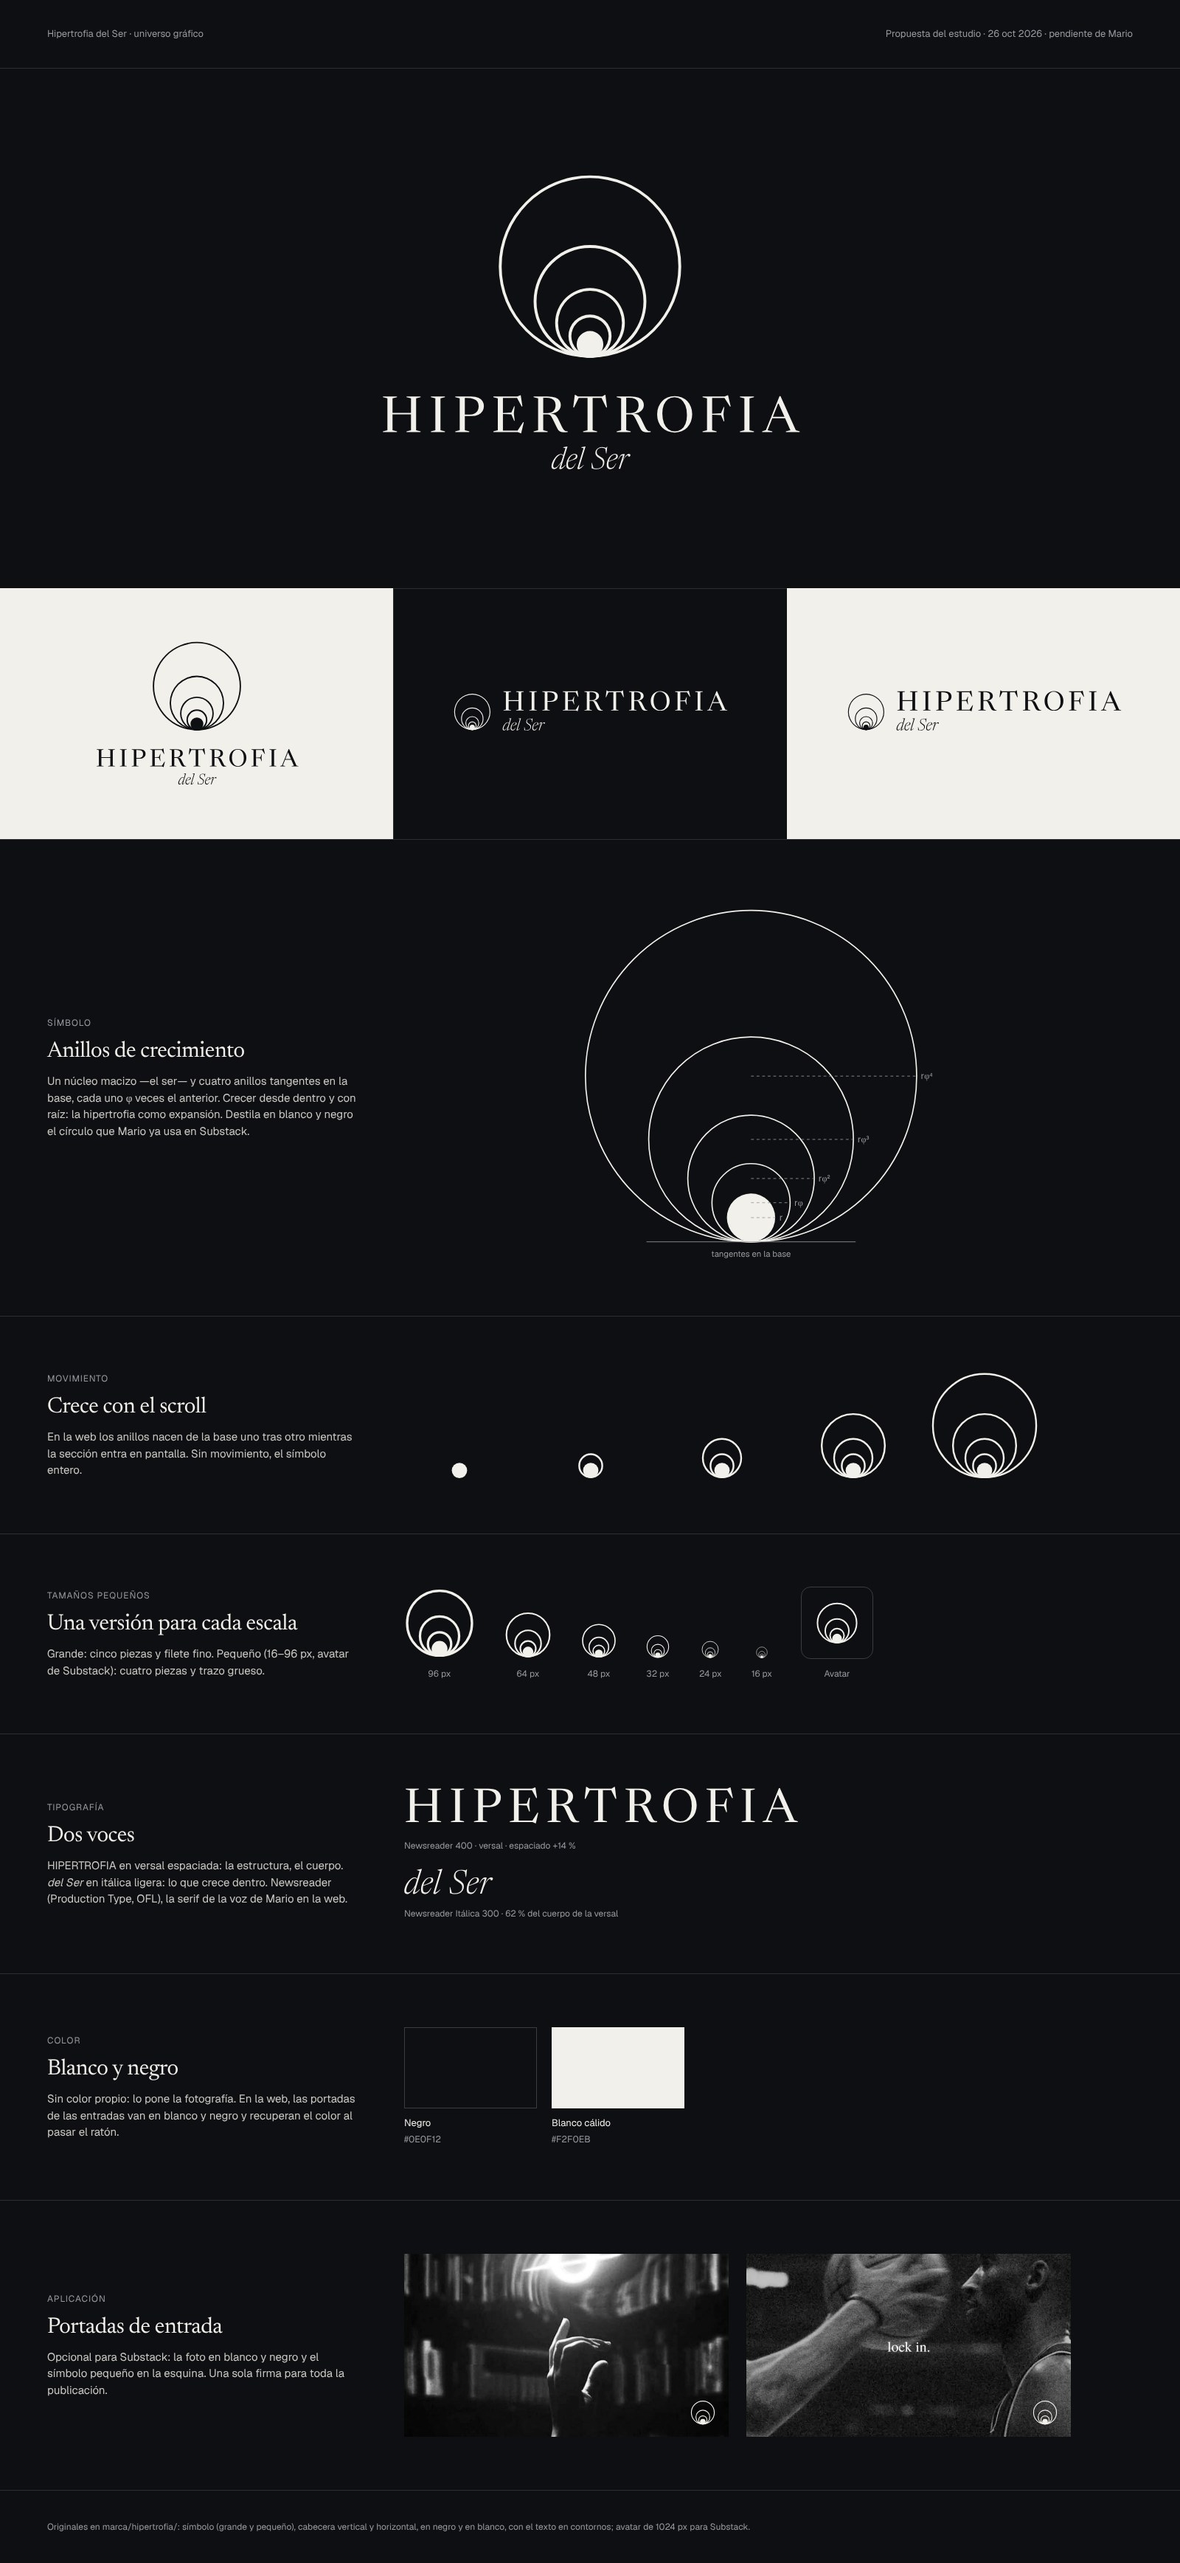
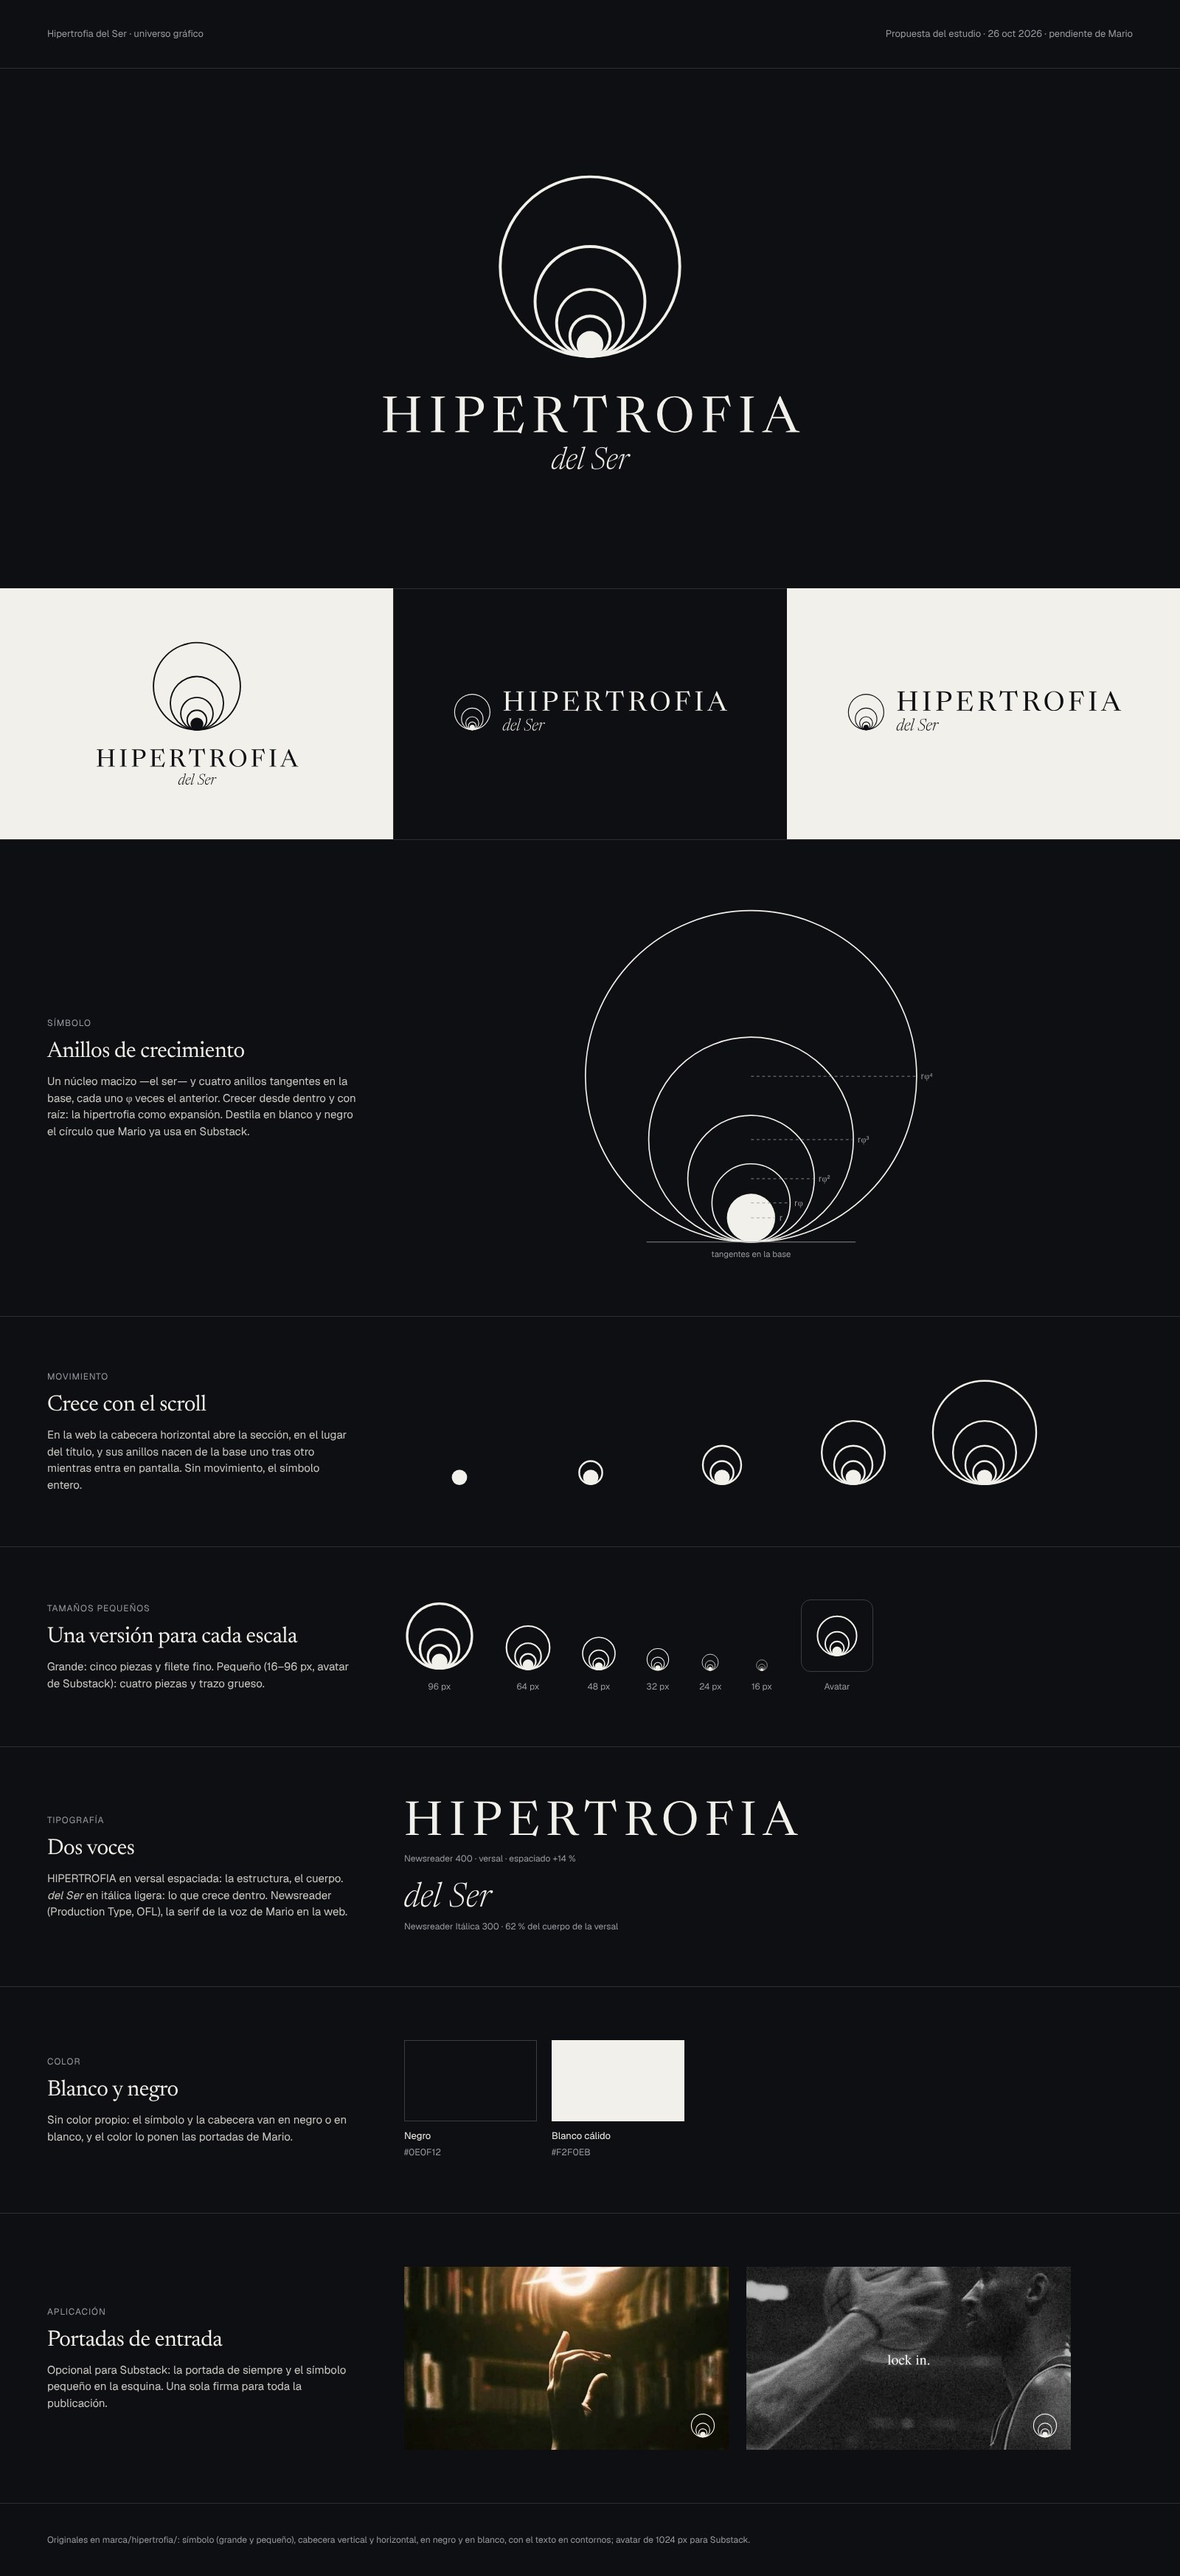
v3: Hipertrofia del Ser, cabecera al tamaño de un título y portadas en color
La cabecera de la publicación (símbolo + HIPERTROFIA / del Ser) deja de
ocupar una pantalla y abre la sección en el lugar del título, en
horizontal; el símbolo sigue creciendo con el scroll. Las portadas de las
entradas recuperan su color. Hoja del sistema, README y PLAN al día.

Claude-Session: https://claude.ai/code/session_01Npzz9QTKa2pHp5aZ9Rw4yu

diff --git a/clients/mario-lignarolo/app/v3/v3.module.css b/clients/mario-lignarolo/app/v3/v3.module.css
@@ -686,16 +686,20 @@
    tangentes en la base, cada uno φ veces el anterior (HdsSymbol.tsx).
    Cabecera: el nombre en dos voces, HIPERTROFIA en versal espaciada (el
    cuerpo, la estructura) y «del Ser» en itálica (lo que crece dentro). */
-.hdsCover {
-  display: grid;
-  justify-items: center;
-  text-align: center;
+
+/* la cabecera, donde va el título de sección: símbolo a la izquierda y el
+   nombre en dos líneas; el símbolo mide lo que el bloque de texto */
+.hdsMasthead {
+  display: flex;
+  align-items: center;
+  gap: 0.42em;
+  font-size: clamp(2rem, 1.2rem + 2.2vw, 3.5rem);
 }
 .hdsSymbol {
   display: block;
-  width: min(36svh, 30vw);
-  height: auto;
-  aspect-ratio: 1;
+  flex: none;
+  width: 1.62em;
+  height: 1.62em;
   overflow: visible;
   color: var(--on-dark);
 }
@@ -709,16 +713,13 @@
   transform: scale(calc(var(--x) * (2 - var(--x))));
 }
 .hdsMast {
-  margin: var(--s-block) 0 0;
+  margin: 0;
   font-family: var(--serif);
-  font-size: clamp(2.5rem, 0.9rem + 4.8vw, 6.75rem);
   font-weight: 400;
   line-height: 1;
 }
 .hdsMastName {
   display: block;
-  /* el espaciado de la última letra, devuelto para que centre */
-  margin-right: -0.14em;
   letter-spacing: 0.14em;
   text-transform: uppercase;
 }
@@ -730,13 +731,8 @@
   font-weight: 300;
   letter-spacing: -0.01em;
 }
-.hdsBy {
-  margin: 1.5rem 0 0;
-  font-size: var(--t-ui);
-  color: var(--on-dark-soft);
-}
-.hdsCover + .displayHead {
-  margin-top: var(--s-section);
+.hdsMasthead + .displayHead {
+  margin-top: var(--s-block);
 }
 .cards {
   display: grid;
@@ -754,16 +750,11 @@
   aspect-ratio: 16 / 9;
   margin-bottom: 0.8rem;
 }
-/* portadas en blanco y negro, como una sola publicación; el color, al pasar */
 .cardPhoto img {
-  filter: grayscale(1) contrast(1.06);
-  transition:
-    transform 0.9s cubic-bezier(0.16, 0.84, 0.24, 1),
-    filter 0.6s ease;
+  transition: transform 0.9s cubic-bezier(0.16, 0.84, 0.24, 1);
 }
 .cardLink:hover .cardPhoto img {
   transform: scale(1.03);
-  filter: none;
 }
 .cardTitle {
   margin: 0;
@@ -1520,11 +1511,8 @@
     max-height: none;
     aspect-ratio: 4 / 5;
   }
-  .hdsSymbol {
-    width: min(62vw, 300px);
-  }
-  .hdsMast {
-    font-size: 9.6vw;
+  .hdsMasthead {
+    font-size: min(2rem, 7.6vw);
   }
   .cards {
     grid-template-columns: 1fr;

diff --git a/clients/mario-lignarolo/app/v3/sections/Hipertrofia.tsx b/clients/mario-lignarolo/app/v3/sections/Hipertrofia.tsx
@@ -7,26 +7,22 @@ import s from "../v3.module.css";
 
 /**
  * 04 · HIPERTROFIA DEL SER, en negro: una publicación con identidad propia.
- * Abre como la portada de una revista —su símbolo, que crece con el scroll,
- * y su cabecera—; después, el titular en condensada («El ser también.» se
- * enciende con el scroll) y el copy en la columna de lectura. Seis entradas
- * reales de Substack, todas al mismo tamaño, con títulos en serif y portadas
- * en blanco y negro (el color vuelve al pasar el ratón); al cierre, una
- * suscripción discreta con el símbolo.
+ * Abre con su cabecera (el símbolo, que crece con el scroll, y el nombre)
+ * en el lugar del título de sección; después, el titular en condensada
+ * («El ser también.» se enciende con el scroll) y el copy en la columna de
+ * lectura. Seis entradas reales de Substack, todas al mismo tamaño y con
+ * títulos en serif; al cierre, una suscripción discreta con el símbolo.
  */
 export default function Hipertrofia() {
   const { hipertrofia: h } = v3;
   return (
     <section className={`${s.dark} ${s.pub}`} id="hipertrofia" aria-labelledby="pub-h">
       <div className={`${s.wrap} ${s.section}`}>
-        <div className={s.hdsCover}>
+        <div className={s.hdsMasthead} data-reveal="up">
           <HdsSymbol grow className={s.hdsSymbol} />
-          <p className={s.hdsMast} data-reveal="up">
+          <p className={s.hdsMast}>
             <span className={s.hdsMastName}>{h.masthead[0]}</span>{" "}
             <span className={s.hdsMastDel}>{h.masthead[1]}</span>
-          </p>
-          <p className={s.hdsBy} data-reveal="up" style={{ "--delay": "0.15s" } as CSSProperties}>
-            {h.subscribe.by}
           </p>
         </div>
         <h2 className={`${s.statement} ${s.displayHead}`} id="pub-h" data-scrub="0.82">

diff --git a/clients/mario-lignarolo/data/v3.ts b/clients/mario-lignarolo/data/v3.ts
@@ -96,8 +96,8 @@ export const v3 = {
   hipertrofia: {
     label: "Hipertrofia del Ser",
     // [PROPUESTA] cabecera de la publicación (pedida por Pablo, 26 oct): el nombre
-    // en dos voces —HIPERTROFIA en versal espaciada, «del Ser» en itálica— bajo
-    // su símbolo (app/v3/HdsSymbol.tsx; originales en marca/hipertrofia/).
+    // en dos voces —HIPERTROFIA en versal espaciada, «del Ser» en itálica— junto
+    // a su símbolo (app/v3/HdsSymbol.tsx; originales en marca/hipertrofia/).
     masthead: ["Hipertrofia", "del Ser"],
     headline: ["El cuerpo se entrena.", "El ser también."],
     paragraphs: [

diff --git a/clients/mario-lignarolo/marca/PLAN.md b/clients/mario-lignarolo/marca/PLAN.md
@@ -43,7 +43,7 @@ Pablo y Claude co-dirigen el pulido de la marca de Mario: narrativa, storytellin
 | 26 oct 2026 | **Emprendimiento rehecho** (Pablo: «se ve feo, estructurado, la foto se ve rara»). La sección toma el gris de estudio de su propia foto: el retrato de campaña de Lignarolo a sangre por la derecha, fundido con un degradado medido sobre su fondo, y la frase «Hay ideas que me gusta pensar…» en el vacío junto a Mario pensando. Después, los cinco territorios centrados que se encienden con el scroll, y Lignarolo como firma de casa de moda con tres detalles (producto, diseño, marca) tomados de la tienda pública. Fuera los marcadores de «foto pendiente». **Confirmar con Mario y Giorgio** el uso de esas tres fotos. | Pablo + Claude |
 | 26 oct 2026 | **Se trabaja sección por sección, con «alta carpintería».** Primera: **la portada**. Entra el **logo de Mario** (PNG de Pablo, vectorizado a SVG; original en `marca/referencias/`) como cabecera de revista, en blanco. Una sola medida manda: el cuerpo del statement se calcula desde el alto de pantalla. Primero el logo medía lo mismo que la línea más larga; a Pablo le pareció enorme, así que pasa a ser φ² veces menor (firma, no titular), en la línea del menú, con el statement apoyado abajo y aire entre ambos. Foto etalonada en el archivo (negros profundos, piel natural, verde contenido) y servida sin recomprimir; fuera la desaturación por CSS. Coreografía de entrada (barrido del logo, líneas que suben desde su máscara, foto desde negro) y paralaje al bajar. | Pablo + Claude |
 | 26 oct 2026 | **Banners de inspiración entre secciones**, al modo del «Outwork Everyone» de Nike: foto a sangre con actitud atlética y una frase de Mario en serif, partida a ambos lados de la figura o en el claro de la foto. Solo frases suyas, literales y con fuente: «Todo es interno.» (entrevista), «El músculo más atractivo que puedes desarrollar no está en tu cuerpo.» (Substack, «Ya eres») y «No se trata de hacer más. Se trata de SER más.» (su carrusel fijado). Van tras Origen, tras Psicocibernética y antes de Contacto. Fotos de sus carruseles de Instagram, recortadas por encima del texto de diseño y retocadas; **confirmar con Mario** su uso. | Pablo + Claude |
-| 26 oct 2026 | **Hipertrofia del Ser, con universo gráfico propio** (Pablo: «más icónico, más branded, más elevado»). Símbolo: **anillos de crecimiento**, un núcleo macizo (el ser) y cuatro anillos tangentes en la base, cada uno φ veces el anterior; destila en blanco y negro el círculo que Mario ya usa en Substack. Cabecera en dos voces: HIPERTROFIA en versal espaciada y *del Ser* en itálica (Newsreader). En la web, la sección abre como la portada de una revista: el símbolo crece con el scroll, las entradas llevan títulos en serif y portadas en blanco y negro (el color vuelve al pasar el ratón), y la suscripción lleva el símbolo. Originales y hoja del sistema en `marca/hipertrofia/`. **Propuesta: pendiente de Mario** (y, si la aprueba, cambiar el avatar en Substack). | Pablo + Claude |
+| 26 oct 2026 | **Hipertrofia del Ser, con universo gráfico propio** (Pablo: «más icónico, más branded, más elevado»). Símbolo: **anillos de crecimiento**, un núcleo macizo (el ser) y cuatro anillos tangentes en la base, cada uno φ veces el anterior; destila en blanco y negro el círculo que Mario ya usa en Substack. Cabecera en dos voces: HIPERTROFIA en versal espaciada y *del Ser* en itálica (Newsreader). En la web, la cabecera horizontal abre la sección en el lugar del título (con su símbolo creciendo con el scroll), las entradas llevan títulos en serif y la suscripción lleva el símbolo. Primero la cabecera ocupaba una pantalla entera como portada de revista y las portadas de las entradas iban en blanco y negro; a Pablo no le convenció ni lo uno ni lo otro, así que la cabecera pasa al tamaño de un título y las portadas recuperan su color. Originales y hoja del sistema en `marca/hipertrofia/`. **Propuesta: pendiente de Mario** (y, si la aprueba, cambiar el avatar en Substack). | Pablo + Claude |
 
 ## Pendiente con Mario
 

diff --git a/clients/mario-lignarolo/marca/hipertrofia/README.md b/clients/mario-lignarolo/marca/hipertrofia/README.md
@@ -39,5 +39,6 @@ Solo negro `#0E0F12` y blanco cálido `#F2F0EB`. Cada SVG tiene un único rellen
 Lo usa `/v3`:
 
 - El componente está en `app/v3/HdsSymbol.tsx`.
-- La cabecera es texto vivo.
-- En la sección, los anillos crecen con el scroll.
+- La cabecera horizontal abre la sección, en el lugar del título, y es texto vivo.
+- Sus anillos crecen con el scroll.
+- Las portadas de las entradas mantienen su color.
